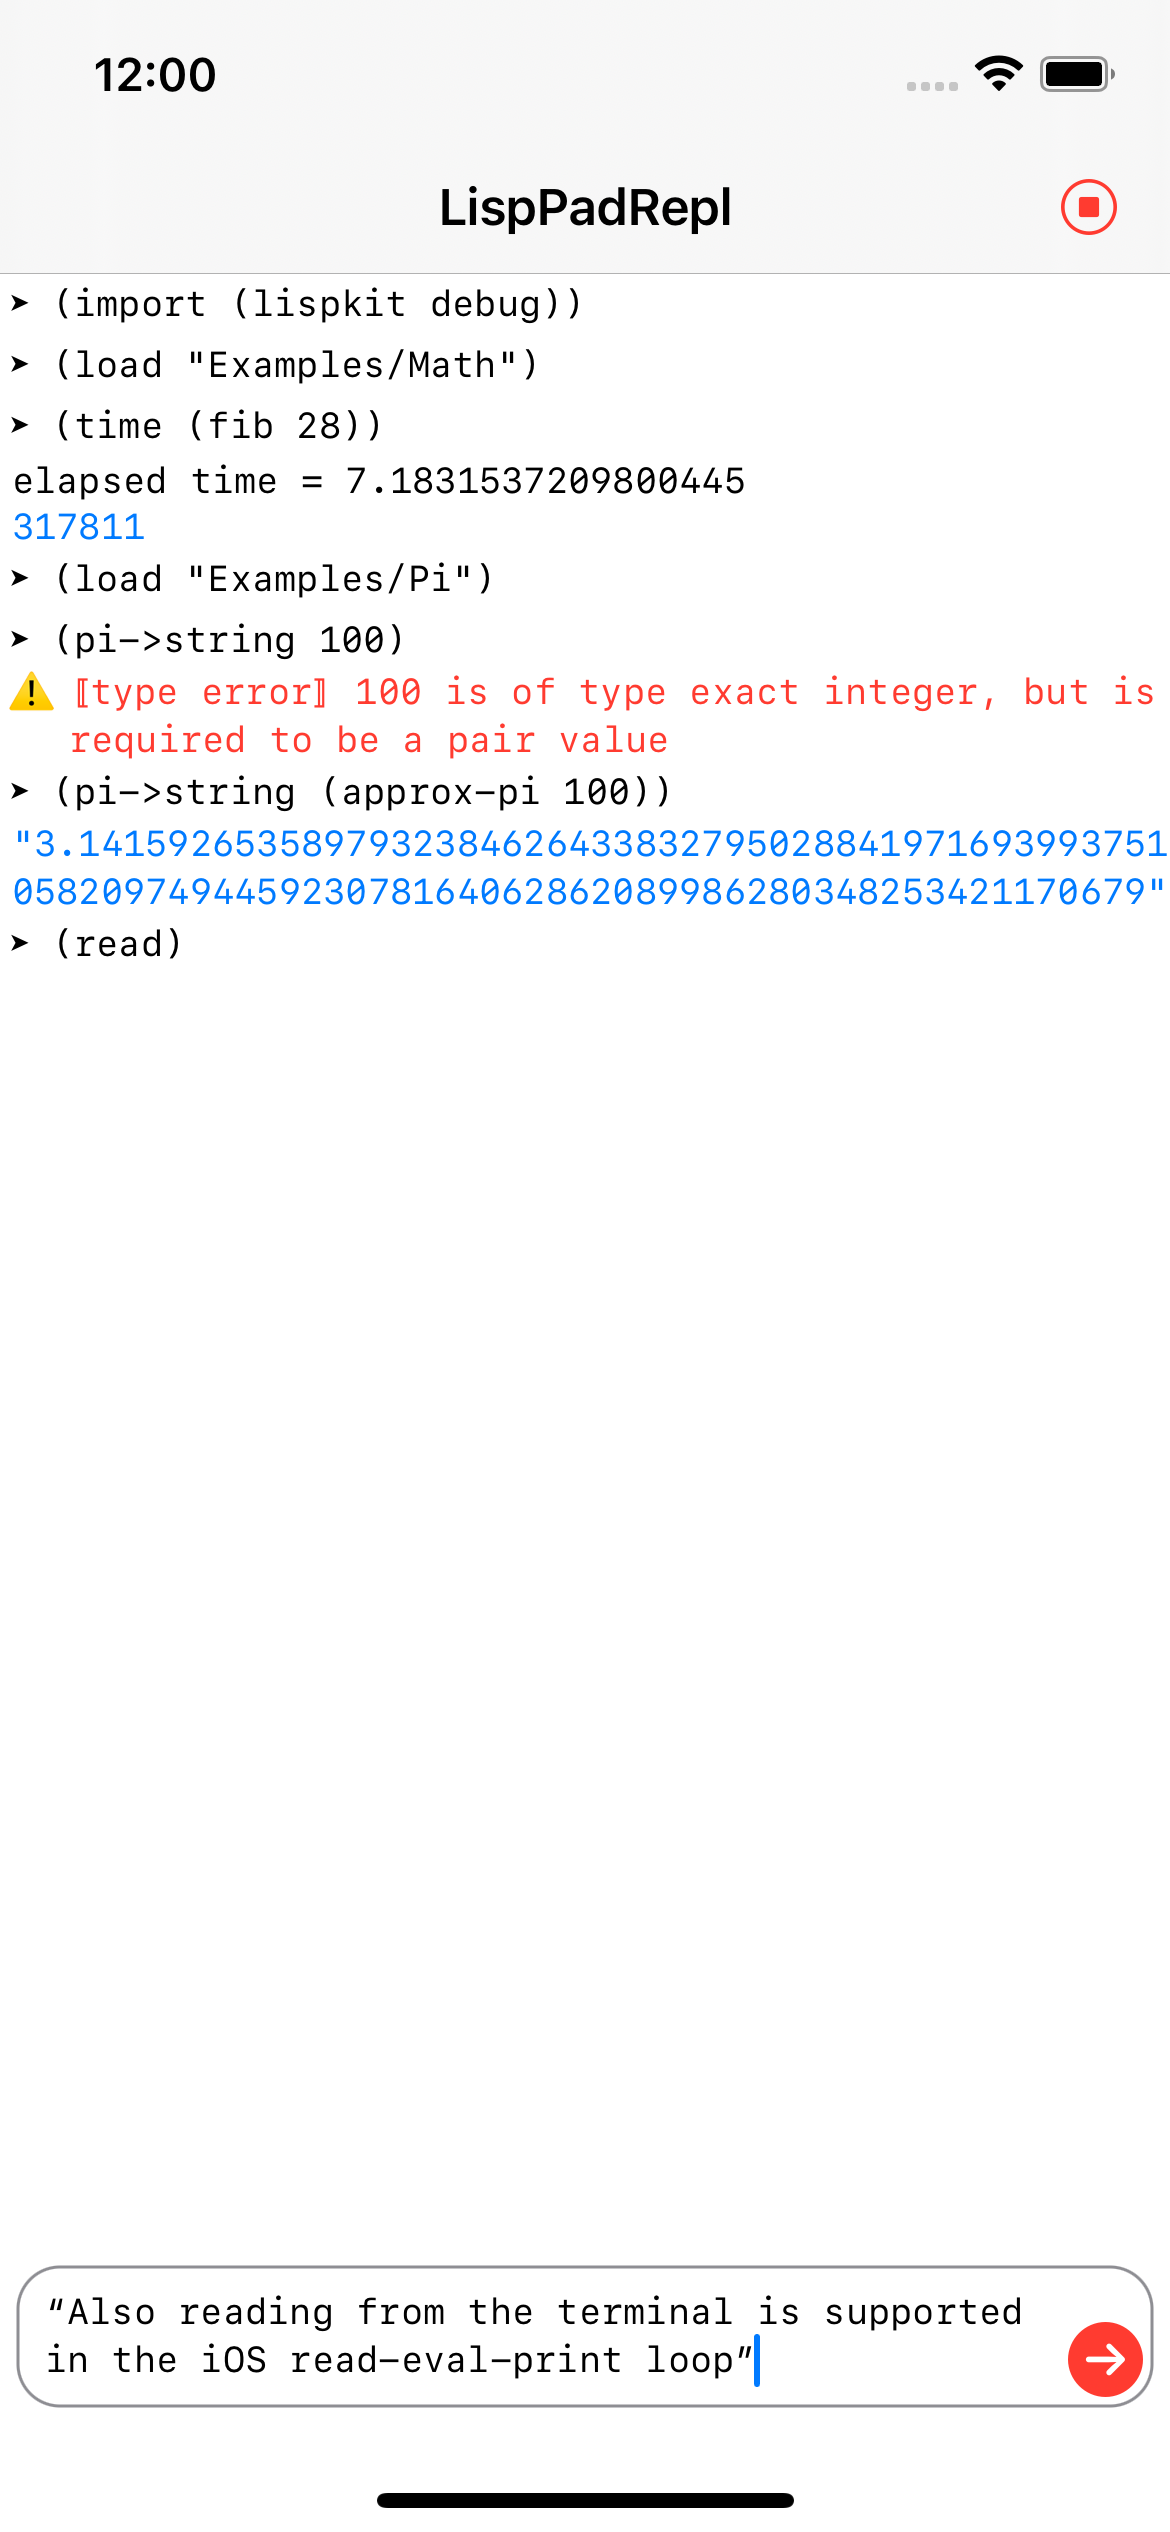
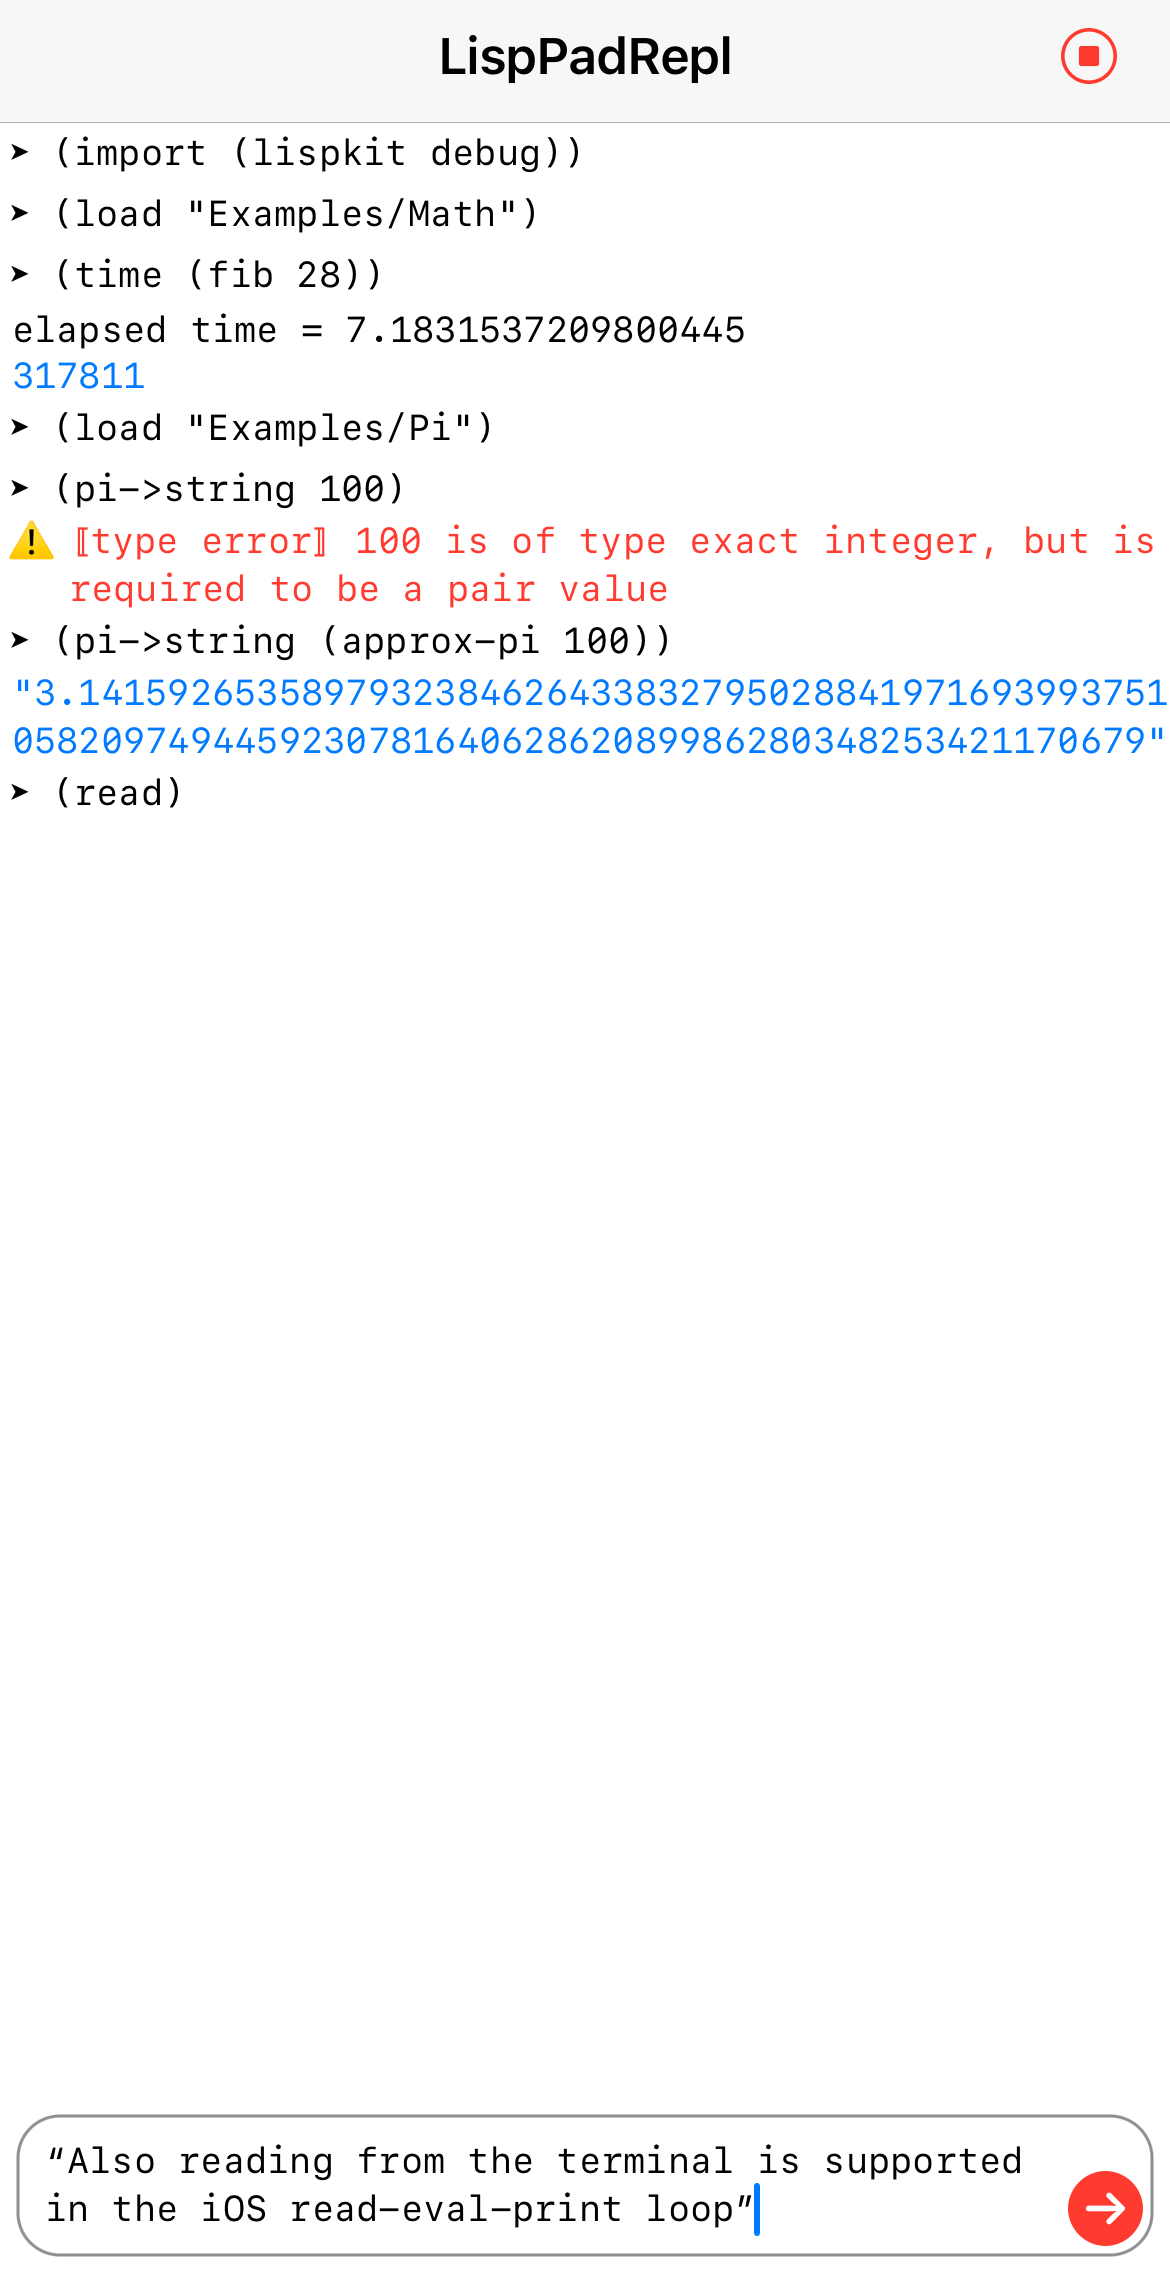
Fix iOS screenshot.

diff --git a/README.md b/README.md
@@ -304,7 +304,7 @@ Details for building such release binaries can be looked up in the
 
 ### Building and running the iOS tool
 
-<img style="float: right;" src="Assets/lispkit-repl-ios.png" alt="LispKitRepl iOS" width="390" height="844" />
+<img align="right" src="Assets/lispkit-repl-ios.png" alt="LispKitRepl iOS" width="293" height="571" />
 
 Within Xcode, switch the scheme to the target _LispKitRepl iOS_ and build and run the project. By default,
 this will invoke the iOS simulator and run an application "LispKitRepl iOS". The application has a chat-inspired
